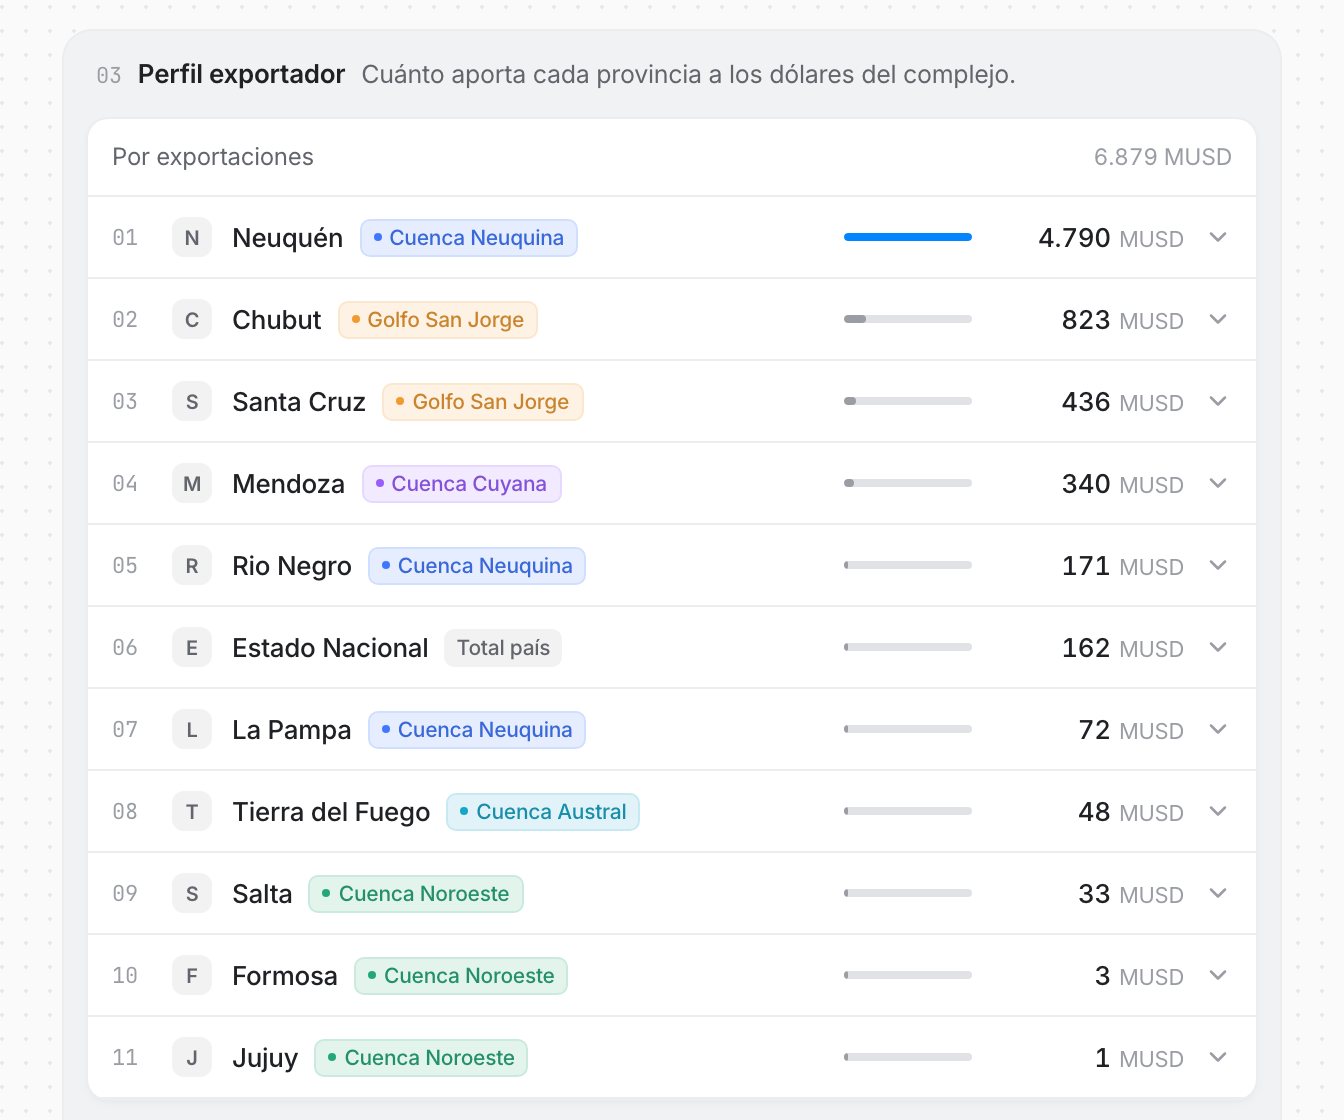
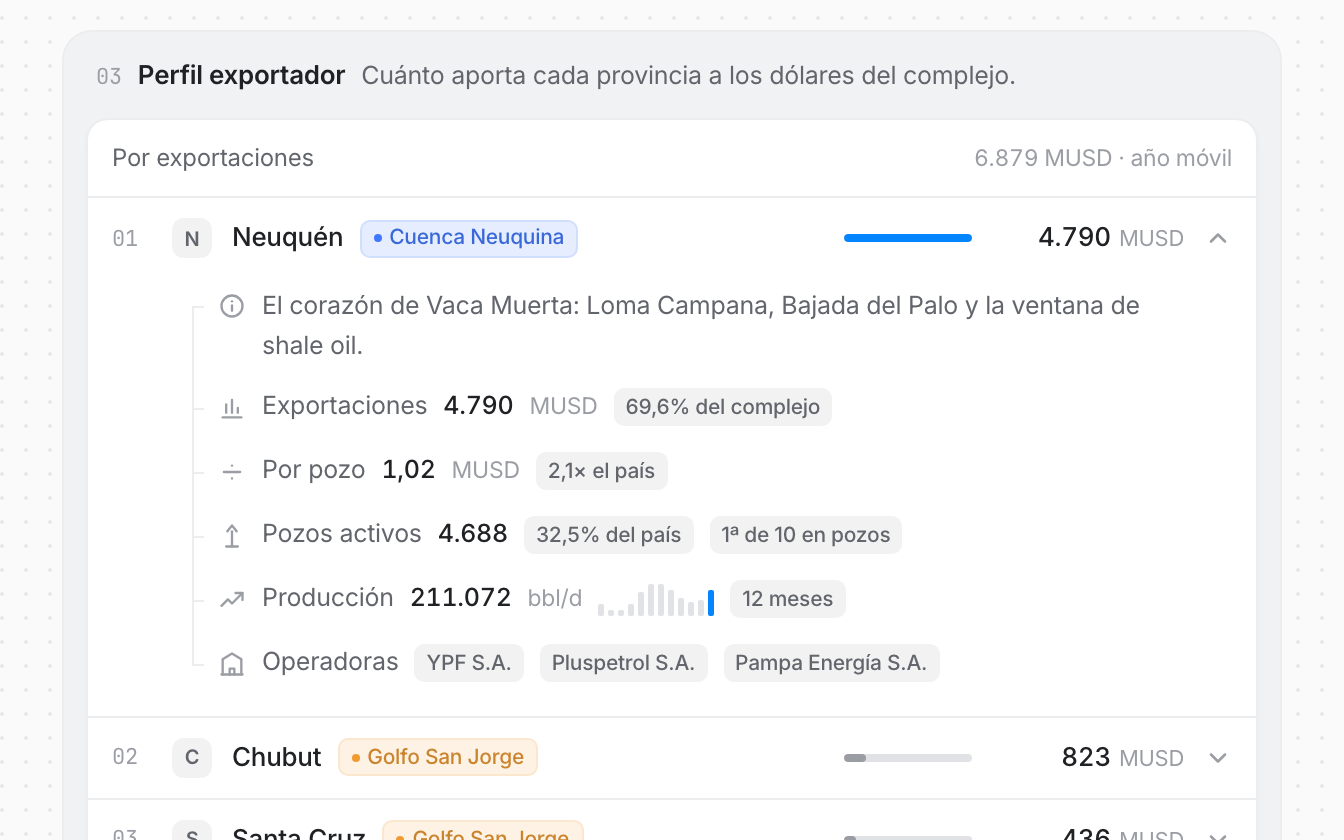
v2(provincias): "del complejo" y no "del país", y la cifra dice el período
Tu pregunta sobre si los valores eran MUSD destapó dos errores míos.

1. El denominador estaba mal rotulado. Yo había puesto "69,6% del país" en el
   desglose de Neuquén. Los once exportsMUSD suman 6.879, pero las
   exportaciones totales de la Argentina son US$ 17,1B en el año móvil —el
   número que el propio sitio publica, minería incluida—. Neuquén es 69,6% de
   esta columna y 28,0% del país: decir "del país" erraba por un factor de 2,5.

   La comprobación cierra sola: 6.879/17.100 = 40,2%, que es exactamente lo que
   suman los once expSharePct (40,4%). O sea que expSharePct SÍ es la
   participación en el país y ésta es la del complejo. Pasa a decir
   "69,6% del complejo", que es lo que el título y el pie ya decían.

2. La cifra no tenía período, que en dinero es la mitad del dato. El prototipo
   viejo la rotula "año móvil" en las tres partes donde la muestra; v2 no lo
   decía en ninguna. Ahora la cabecera dice "6.879 MUSD · año móvil" y la
   tarjeta de resumen de la sección 01 también.

El pie deja las dos cifras enfrentadas para que no se confundan nunca más.

diff --git a/apps/ui-prototype/src/app/v2/provincias/page.tsx b/apps/ui-prototype/src/app/v2/provincias/page.tsx
@@ -65,7 +65,12 @@ export default function V2Provincias() {
           </Card>
           <Card>
             <div className="px-3 py-3">
-              <Dato rotulo="Exportaciones" valor={formatCompactAR(totalExpo)} unidad="MUSD" />
+              <Dato
+                rotulo="Exportaciones"
+                valor={formatCompactAR(totalExpo)}
+                unidad="MUSD"
+                nota="año móvil"
+              />
             </div>
           </Card>
           <Card>
@@ -135,7 +140,10 @@ export default function V2Provincias() {
         desc="Cuánto aporta cada provincia a los dólares del complejo."
       >
         <Card>
-          <CardHead titulo="Por exportaciones" nota={`${formatCompactAR(totalExpo)} MUSD`} />
+          {/* La cifra llevaba unidad pero no período, que en una cifra de
+              dinero es la mitad del dato. El sitio la publica como año móvil,
+              o sea los últimos doce meses. */}
+          <CardHead titulo="Por exportaciones" nota={`${formatCompactAR(totalExpo)} MUSD · año móvil`} />
           {/* La MISMA fila que la sección 02. Antes era FilaRanking con la nota
               en un segundo renglón, y entre las dos listas no coincidía nada:
               60px de alto contra 40, dos renglones contra uno, sin tag de
@@ -175,7 +183,14 @@ export default function V2Provincias() {
             La comparación entre los dos rankings no se pierde, vive donde
             corresponde: en el desglose de la sección 02, cada provincia dice
             "Nª de 10 en exportaciones", que es el puesto que ahí no se ve. */}
-        <Pie>Sobre el total del complejo, no sobre las exportaciones del país.</Pie>
+        {/* La aclaración importa porque las dos cifras existen y se llevan un
+            factor de 2,5: la Argentina exportó US$ 17,1B en el año móvil según
+            el propio sitio —minería incluida— y estas once filas suman 6.879,
+            o sea el 40,2%. Neuquén es 69,6% de esta tabla y 28,0% del país. */}
+        <Pie>
+          Los porcentajes son sobre estos 6.879 MUSD, no sobre las exportaciones totales
+          del país, que son US$ 17,1B en el año móvil.
+        </Pie>
       </Seccion>
 
       <Seccion

diff --git a/apps/ui-prototype/src/app/v2/provincias/FilaProvincia.tsx b/apps/ui-prototype/src/app/v2/provincias/FilaProvincia.tsx
@@ -82,8 +82,9 @@ export function FilaProvincia({
   /** porcentaje de los pozos del país que aporta la provincia */
   pctPozos: number
   /** participación en la COLUMNA de exportaciones, la que cierra contra el
-      total de la cabecera. No confundir con Province.expSharePct, que tiene
-      otro denominador: ver el comentario del fixture. */
+      total de la cabecera. Es sobre el complejo, no sobre el país: no
+      confundir con Province.expSharePct, que es sobre los US$ 17,1B de
+      exportaciones totales de la Argentina. Ver el fixture. */
   pctExpo: number
   /** MUSD exportados por pozo activo en todo el país: 6.879 / 14.441 = 0,476.
       Es la vara contra la que se compara la intensidad de cada provincia. */
@@ -288,7 +289,18 @@ export function FilaProvincia({
                     valor={formatInteger(p.exportsMUSD)}
                     unidad="MUSD"
                     badges={[
-                      `${formatDecimal(pctExpo, 1)}% del país`,
+                      /* "del complejo" y NO "del país". Los once exportsMUSD
+                         suman 6.879, pero las exportaciones totales de la
+                         Argentina son US$ 17,1B en el año móvil —el número que
+                         publica el sitio, minería incluida—. Neuquén es 69,6%
+                         de esta columna y 28,0% del país; decir "69,6% del
+                         país" era afirmar algo falso por un factor de 2,5.
+
+                         La comprobación: 6.879/17.100 = 40,2%, que es
+                         exactamente lo que suman los once expSharePct (40,4%).
+                         O sea que expSharePct SÍ es la participación en el
+                         país, y esta otra es la participación en la columna. */
+                      `${formatDecimal(pctExpo, 1)}% del complejo`,
                       ...(metrica === 'pozos' && puestoExpo
                         ? [`${puestoExpo}ª de ${totalProvincias} en exportaciones`]
                         : []),
